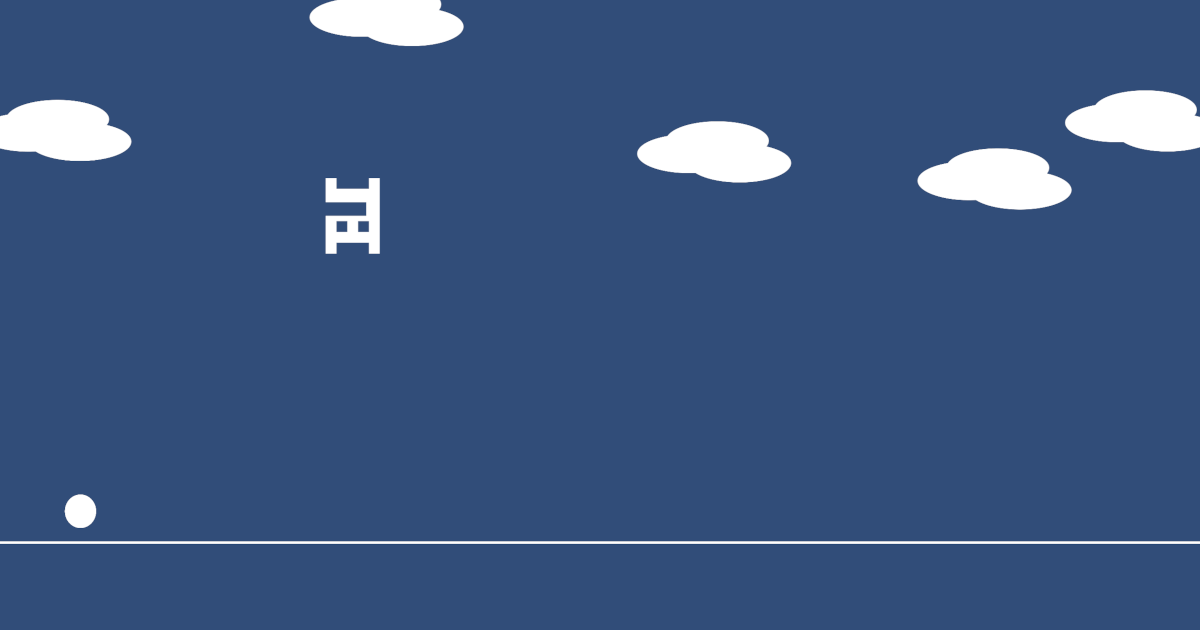
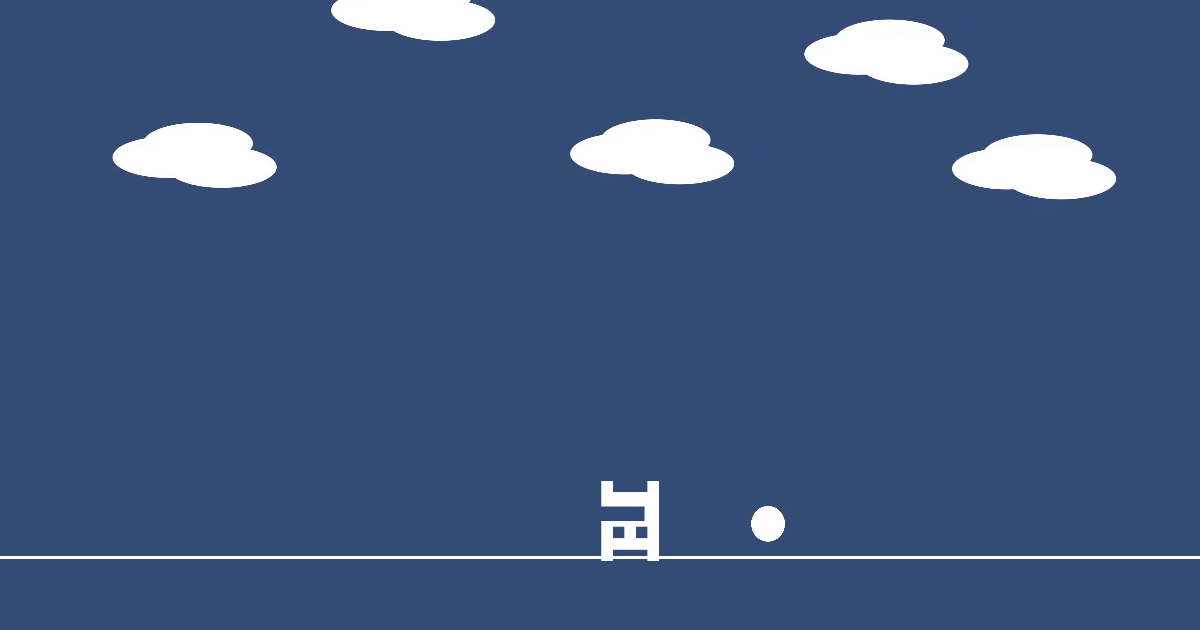
feat(portfolio): introducing improved hudless, square-cropped screenshots
More to follow...

diff --git a/games.md b/games.md
@@ -35,20 +35,20 @@ type: category-games
 	<a href="/games/weekly-game-jam/waiting-for-uptrend.html" class="game" style="background-image: url(/assets/img/games/waiting-for-uptrend/opengraph.png)">
 		<h3 class="game__desc">Waiting For Uptrend</h3>
 	</a>
-	<a href="/games/weekly-game-jam/ghoul-must-eat.html" class="game" style="background-image: url(/assets/img/games/ghoul-must-eat/opengraph.png)">
+	<a href="/games/weekly-game-jam/ghoul-must-eat.html" class="game" style="background-image: url(/assets/img/games/ghoul-must-eat/screenshot-squarecropnohud.png)">
 		<h3 class="game__desc">Ghoul Must Eat</h3>
 	</a>
-	<a href="/games/one-hour-game-jam/it-has-a-beard.html" class="game" style="background-image: url(/assets/img/games/it-has-a-beard/opengraph.png)">
+	<a href="/games/one-hour-game-jam/it-has-a-beard.html" class="game" style="background-image: url(/assets/img/games/it-has-a-beard/screenshot-squarecropnohud.png)">
 		<h3 class="game__desc">It Has A Beard</h3>
 	</a>
-	<a href="/games/one-hour-game-jam/into-the-clouds.html" class="game" style="background-image: url(/assets/img/games/into-the-clouds/opengraph.png)">
+	<a href="/games/one-hour-game-jam/into-the-clouds.html" class="game" style="background-image: url(/assets/img/games/into-the-clouds/screenshot-squarecropnohud.png)">
 		<h3 class="game__desc">Into The Clouds</h3>
 	</a>
 </div>
 
 <h3>Mobile</h3>
 <div class="game-grid">
-	<a href="/games/other-and-experimental/rad-rocket.html" class="game" style="background-image: url(/assets/img/games/rad-rocket/opengraph.png)">
+	<a href="/games/other-and-experimental/rad-rocket.html" class="game" style="background-image: url(/assets/img/games/rad-rocket/screenshot-squarecropnohud.png)">
 		<h3 class="game__desc">Rad Rocket</h3>
 	</a>
 </div>
